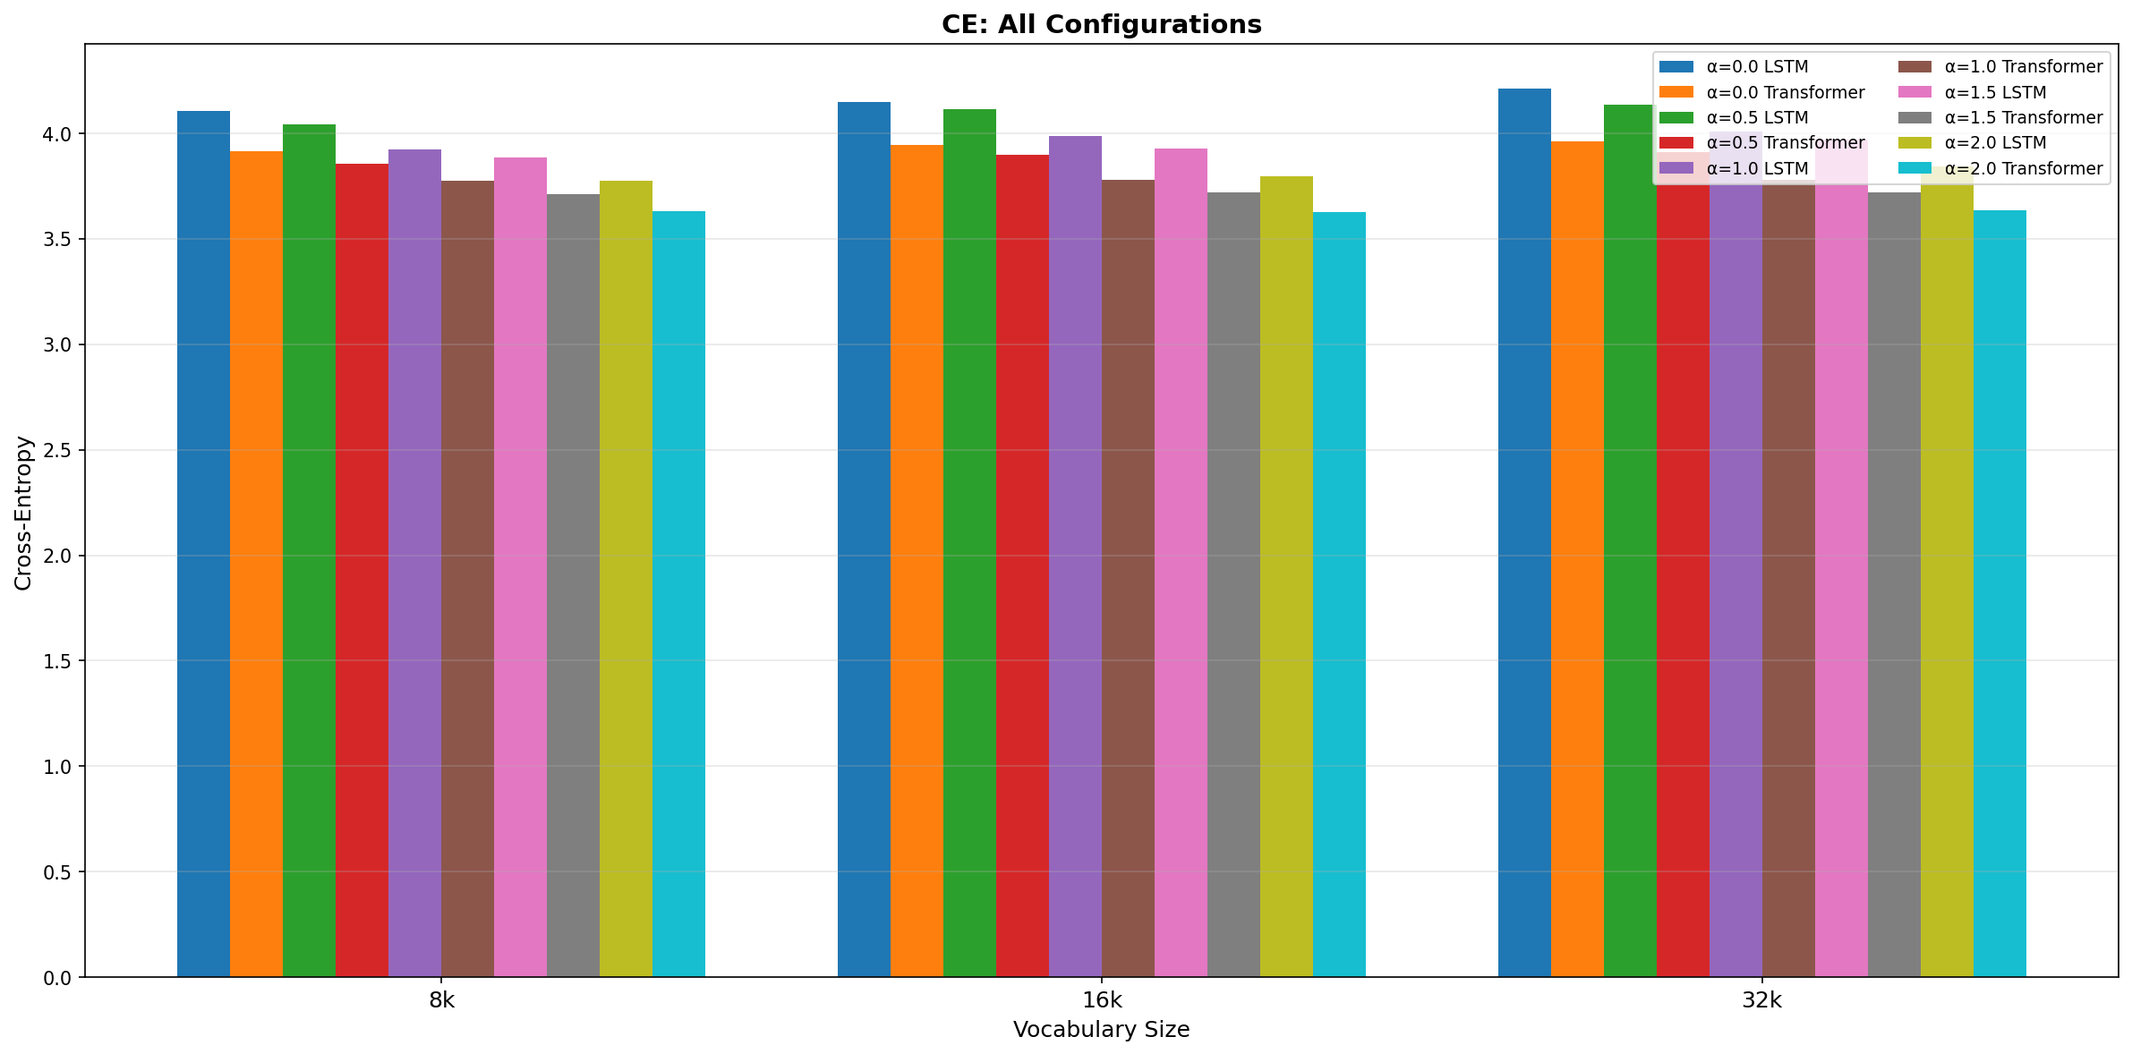
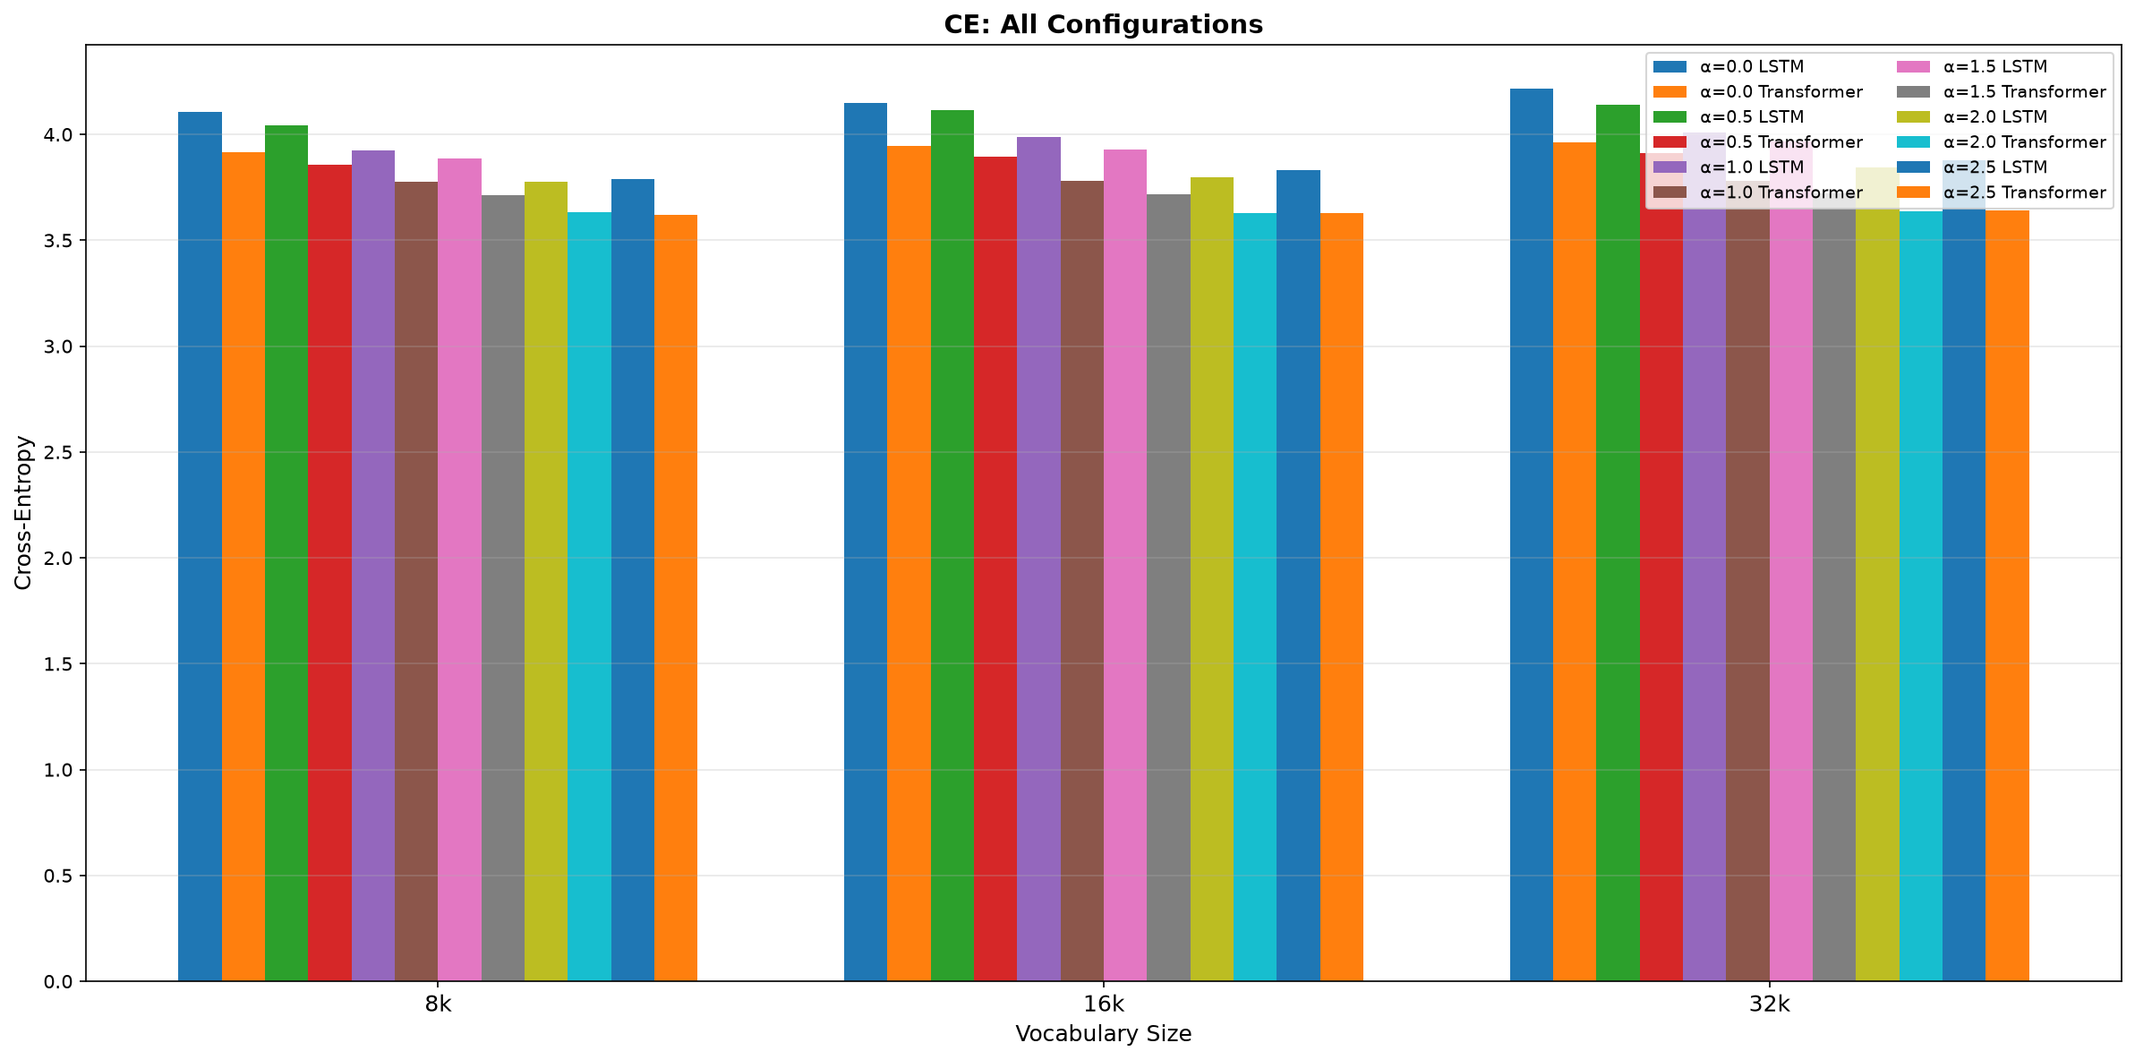
Add alpha=2.5 results (36 experiments complete), update README, LinkedIn article with full tables, regenerate plots

diff --git a/scripts/analyze_results.py b/scripts/analyze_results.py
@@ -15,9 +15,10 @@ ALPHA_LABELS = {
     1.0: "MorphBPE (α=1)",
     1.5: "MorphBPE (α=1.5)",
     2.0: "MorphBPE (α=2)",
+    2.5: "MorphBPE (α=2.5)",
 }
 VOCABS = [8000, 16000, 32000]
-ALPHAS = [0.0, 0.5, 1.0, 1.5, 2.0]
+ALPHAS = [0.0, 0.5, 1.0, 1.5, 2.0, 2.5]
 MODELS = ["LSTM", "Transformer"]
 COLORS = {
     0.0: "#4e79a7",
@@ -25,6 +26,7 @@ COLORS = {
     1.0: "#59a14f",
     1.5: "#edc948",
     2.0: "#e15759",
+    2.5: "#b07aa1",
 }
 
 
@@ -105,7 +107,7 @@ def plot_ppl_by_vocab(results):
 def plot_alpha_comparison(results):
     fig, axes = plt.subplots(1, 2, figsize=(16, 6))
     x = np.arange(len(ALPHAS))
-    width = 0.25
+    width = 0.20
     for idx, metric in enumerate(["ce", "ppl"]):
         ax = axes[idx]
         for vi, vocab in enumerate(VOCABS):
@@ -131,7 +133,7 @@ def plot_alpha_comparison(results):
 def plot_model_comparison(results):
     fig, ax = plt.subplots(figsize=(16, 8))
     x = np.arange(len(VOCABS))
-    width = 0.08
+    width = 0.065
     for ai, alpha in enumerate(ALPHAS):
         for mi, model in enumerate(MODELS):
             vals = [get_result(results, v, alpha, model, "ce") for v in VOCABS]

diff --git a/linkedin_article.md b/linkedin_article.md
@@ -1,93 +1,168 @@
-# MorphBPE: Can Morphology-Aware Tokenization Beat BPE for Polish?
+MorphBPE: Can Morphology-Aware Tokenization Beat BPE for Polish?
 
-## What if your tokenizer actually understood Polish word structure?
+36 experiments. 6 alpha values. One clear conclusion.
 
-Tokenization is the foundation of every LLM — it determines how text is split into units the model processes. Standard BPE (Byte-Pair Encoding) learns merges purely from frequency statistics, completely ignoring linguistic structure. This often produces tokens that split words in the middle of morphemes, fragmenting meaningful units like roots, prefixes, and suffixes.
+What if your tokenizer actually understood Polish word structure?
 
-**MorphBPE** (based on Asgari et al., QCRI, arXiv:2502.00894) changes this by penalizing merges that cross morphological boundaries. Using Morfeusz2 (a Polish morphological analyzer), we detect suffix boundaries and multiply the merge score by `(1 - α)` when a merge would cross one. The extension to α > 1.0 (active deprioritization) is our own modification — the original QCRI work describes a hard block, not a continuous weighting parameter. This simple change produces tokenizers that respect word structure — and the pilot results are encouraging.
+Standard BPE (Byte-Pair Encoding) learns merges purely from frequency statistics — it doesn't know what a root, prefix, or suffix is. This often produces tokens that split words in the middle of morphemes, fragmenting meaningful units.
 
-## The Experiment
+MorphBPE (based on Asgari et al., QCRI, arXiv:2502.00894) changes this by penalizing merges that cross morphological boundaries. Using Morfeusz2 (a Polish morphological analyzer), we detect suffix boundaries and multiply the merge score by (1 - α). The extension to α > 1.0 (active deprioritization) is our own modification — the original work describes a hard block, not a continuous weighting parameter.
 
-We ran a **pilot evaluation** (small corpus, single runs, no seeds) across:
-- **3 vocabulary sizes**: 8k, 16k, 32k
-- **5 alpha values**: 0.0 (standard BPE), 0.5, 1.0, 1.5, 2.0
-- **2 model architectures**: LSTM and Transformer language models
-- **30 experiments total**, trained on 8,000 Polish parliamentary speeches (Sejm corpus), 500 test, sequence length 32, 3 epochs
+One simple change to the scoring function. The results speak for themselves.
 
-Alpha controls the penalty strength:
-- α=0.0 → standard BPE (no penalty)
-- α=1.0 → full block (merges crossing boundaries get zero score)
-- α=2.0 → over-penalization (crossing merges get negative score, actively deprioritized)
+═══════════════════════════════════════
+THE EXPERIMENT
+═══════════════════════════════════════
 
-## Key Findings
+• 3 vocabulary sizes: 8k, 16k, 32k
+• 6 alpha values: 0.0 (BPE), 0.5, 1.0, 1.5, 2.0, 2.5
+• 2 architectures: LSTM + Transformer
+• 36 experiments total
+• Corpus: 8,000 Polish Sejm speeches (train), 500 (test), seq_len=32, 3 epochs
+• Single runs, no seeds — this is a pilot study
 
-### 1. Monotonic improvement with alpha
+Alpha controls the penalty:
+  α=0.0 → standard BPE (no penalty)
+  α=1.0 → full block (crossing merges get zero score)
+  α=2.0 → over-penalization (crossing merges actively deprioritized)
+  α=2.5 → extreme penalty (where does it break?)
 
-Cross-entropy decreases consistently as alpha increases. For the Transformer at 8k vocab:
+═══════════════════════════════════════
+RESULTS: FULL ALPHA SWEEP
+═══════════════════════════════════════
 
-| Alpha | CE | PPL | Reduction vs BPE |
-|-------|-----|-----|------------------|
-| 0.0 (BPE) | 3.914 | 50.10 | — |
-| 0.5 | 3.855 | 47.24 | 1.5% |
-| 1.0 | 3.774 | 43.57 | 3.6% |
-| 1.5 | 3.711 | 40.90 | 5.2% |
-| 2.0 | 3.632 | 37.79 | 7.2% |
+▸ Transformer results (8k vocab)
 
-The trend holds across all vocabulary sizes and both architectures.
+  α     |  CE     |  PPL   | Δ vs BPE
+  ------+--------+--------+---------
+  0.0   | 3.9140 | 50.10  |    —
+  0.5   | 3.8552 | 47.24  |  −1.5%
+  1.0   | 3.7743 | 43.57  |  −3.6%
+  1.5   | 3.7112 | 40.90  |  −5.2%
+  2.0   | 3.6319 | 37.79  |  −7.2%
+  2.5   | 3.6210 | 37.37  |  −7.5%  ★ best
 
-### 2. Over-penalization works
+▸ Transformer results (16k vocab)
 
-The original MorphBPE paper defines α ∈ [0, 1]. We extended it beyond 1.0 and found that α=2.0 consistently outperforms α=1.0 by an additional ~4% relative CE reduction (3.8–4.0% across vocab sizes). This suggests that fully blocking boundary-crossing merges isn't enough — actively deprioritizing them produces better tokenizations.
+  α     |  CE     |  PPL   | Δ vs BPE
+  ------+--------+--------+---------
+  0.0   | 3.9473 | 51.80  |    —
+  0.5   | 3.8966 | 49.24  |  −1.3%
+  1.0   | 3.7789 | 43.77  |  −4.3%
+  1.5   | 3.7188 | 41.21  |  −5.8%
+  2.0   | 3.6272 | 37.61  |  −8.1%  ★ best
+  2.5   | 3.6276 | 37.62  |  −8.1%
 
-### 3. α=1.5 is a sweet spot
+▸ Transformer results (32k vocab)
 
-8k α=1.5 Transformer achieves PPL=40.90, beating 32k standard BPE Transformer (PPL=52.49) — that's **22% lower perplexity with 4× smaller vocabulary**. This means smaller embedding layers, less memory, and faster inference. *(Caveat: PPL across different vocab sizes isn't strictly comparable without bits-per-character normalization — see caveats below.)*
+  α     |  CE     |  PPL   | Δ vs BPE
+  ------+--------+--------+---------
+  0.0   | 3.9605 | 52.49  |    —
+  0.5   | 3.9135 | 50.07  |  −1.2%
+  1.0   | 3.7803 | 43.83  |  −4.5%
+  1.5   | 3.7210 | 41.31  |  −6.0%
+  2.0   | 3.6347 | 37.89  |  −8.2%  ★ best
+  2.5   | 3.6403 | 38.10  |  −8.1%
 
-### 4. Small vocabularies stay competitive under MorphBPE
+▸ LSTM results (all vocab sizes)
 
-At α=2.0, the 8k and 16k tokenizers perform nearly identically (CE=3.632 vs 3.627), and even 8k stays within a whisker of 32k (CE=3.635). With standard BPE, larger vocab usually helps — here, morphological awareness lets a small vocab keep pace. *One caveat: on this small pilot corpus, larger vocabularies are under-trained (rare tokens), so part of this effect may be a data-size artifact rather than pure tokenizer quality.*
+  Vocab |  α   |  CE     |  PPL
+  ------+------+--------+------
+   8k   | 0.0  | 4.1073 | 60.78
+   8k   | 0.5  | 4.0433 | 57.01
+   8k   | 1.0  | 3.9243 | 50.62
+   8k   | 1.5  | 3.8849 | 48.66
+   8k   | 2.0  | 3.7758 | 43.63  ★
+   8k   | 2.5  | 3.7871 | 44.13
+  16k   | 0.0  | 4.1494 | 63.40
+  16k   | 0.5  | 4.1132 | 61.14
+  16k   | 1.0  | 3.9870 | 53.89
+  16k   | 1.5  | 3.9287 | 50.84
+  16k   | 2.0  | 3.7984 | 44.63  ★
+  16k   | 2.5  | 3.8305 | 46.09
+  32k   | 0.0  | 4.2140 | 67.62
+  32k   | 0.5  | 4.1380 | 62.68
+  32k   | 1.0  | 4.0106 | 55.18
+  32k   | 1.5  | 3.9687 | 52.92
+  32k   | 2.0  | 3.8427 | 46.65  ★
+  32k   | 2.5  | 3.8777 | 48.31
 
-### 5. Transformer > LSTM consistently
+═══════════════════════════════════════
+KEY FINDINGS
+═══════════════════════════════════════
 
-The Transformer outperforms LSTM by 3.8-6.2% CE across all configurations, and the gap widens at larger vocabularies. But the alpha effect is consistent across both architectures — morphology helps regardless of model choice.
+1⃣ α=2.0 is the sweet spot
 
-## Cost-Benefit: A Real Trade-Off (not "free lunch")
+CE improves monotonically from α=0.0 to α=2.0 across all vocab sizes and both architectures. At α=2.5, improvements plateau or reverse:
 
-Comparing MorphBPE 8k α=2.0 against a 4× larger BPE 32k tokenizer reveals a genuine **trade-off** — better on some metrics, worse on others:
+  • 8k Transformer: α=2.5 still slightly better (CE 3.621 vs 3.632)
+  • 16k Transformer: α=2.5 essentially identical to α=2.0 (3.6276 vs 3.6272)
+  • 32k Transformer: α=2.5 worse than α=2.0 (3.640 vs 3.635)
+  • LSTM: α=2.5 worse than α=2.0 across all vocab sizes
 
-| Metric | BPE 32k | MorphBPE 8k α=2.0 | Winner |
-|--------|---------|---------------------|--------|
-| Vocab size | 32,000 | 8,000 | **MorphBPE (4× smaller)** |
-| CE Transformer (↓ better) | 3.960 | 3.632 | **MorphBPE (−8.3%)** |
-| PPL Transformer (↓ better) | 52.49 | 37.79 | **MorphBPE (−28%)** |
-| Fertility (↓ better) | 1.020 | 1.149 | BPE 32k (+12.6% cost) |
-| MorphED (↓ better) | 0.389 | 0.456 | BPE 32k (+17.2% worse) |
+Verdict: α=2.0 is the optimal penalty. Going beyond doesn't help (and starts to hurt at larger vocabularies).
 
-**This is not Pareto dominance.** MorphBPE 8k wins decisively on language-model quality (CE/PPL) and memory footprint, but its tokens are less morphologically clean (higher MorphED) and it splits words into more pieces (higher fertility) than the 4× larger BPE 32k vocab. That's expected — with 4× fewer tokens it *has* to segment more aggressively. The striking result is that despite worse intrinsic segmentation, the morphology-aware 8k tokenizer still produces **lower LM cross-entropy** than 32k BPE.
+2⃣ CE reduction grows with alpha — then plateaus
 
-Note: within a *fixed* vocab size, higher α genuinely improves MorphED too (e.g. 8k: 0.574 → 0.456 = −20.5% from BPE to α=2.0). The trade-off above only appears when comparing *across* different vocab sizes.
+  α=0.5 →  0.9–1.8% reduction
+  α=1.0 →  3.6–4.8%
+  α=1.5 →  5.2–6.0%
+  α=2.0 →  7.2–8.8%
+  α=2.5 →  7.2–8.1% (plateau)
 
-### Important caveats (this is a pilot, not a benchmark)
+3⃣ A 4× smaller vocab beats standard BPE
 
-- **Small corpus**: 8,000 sentences, seq_len=32, 3 epochs, **single runs with no seeds** — differences of a few thousandths of CE have no measured variance.
-- **CE/PPL aren't directly comparable across vocab sizes.** Different tokenization granularity affects per-token entropy independently of quality. A rigorous "8k beats 32k" claim needs **bits-per-character** normalization — which we're adding next.
-- **Small data favors smaller vocabs**: 32k is under-trained on rare tokens with so little data, which may partly explain the 8k edge.
-- Claims about transfer to production-scale models are premature at this corpus size.
+8k α=1.5 Transformer (PPL=40.90) beats 32k BPE Transformer (PPL=52.49) — 22% lower perplexity with 4× smaller vocabulary. That means smaller embedding layers, less memory, faster inference.
 
-## What's Next?
+4⃣ Best absolute results
 
-The gains at α=2.0 haven't plateaued — the 1.5→2.0 step still shows substantial improvement. We're now exploring α=2.5 to find where the trend reverses (at very high alpha, over-segmentation should eventually hurt).
+  • Best overall: 8k α=2.5 Transformer — CE=3.6210, PPL=37.37
+  • Best practical: 8k α=2.0 Transformer — CE=3.6319, PPL=37.79 (consistent across all vocabs)
+  • Transformer beats LSTM by 3.8–6.2% CE across all configurations
 
-All code, results, and visualizations are open source:
-- Code & experiments: github.com/PiotrStyla/MorphBPE-
-- Full paper (Polish): included in the repo
+═══════════════════════════════════════
+COST-BENEFIT: HONEST TRADE-OFF
+═══════════════════════════════════════
 
-## Why This Matters
+MorphBPE 8k α=2.0 vs BPE 32k:
 
-For morphologically rich languages like Polish, tokenization isn't just a preprocessing step — it's a design decision that impacts model quality as much as architecture choice. MorphBPE shows that injecting linguistic knowledge into this step produces measurable, consistent gains across model types and vocabulary sizes.
+  Metric                    | BPE 32k | MorphBPE 8k | Winner
+  --------------------------+---------+-------------+--------
+  Vocab size                | 32,000  |  8,000      | MorphBPE (4× smaller)
+  CE Transformer (↓ better) |  3.960  |  3.632      | MorphBPE (−8.3%)
+  PPL Transformer (↓ better)| 52.49   | 37.79       | MorphBPE (−28%)
+  Fertility (↓ better)      |  1.020  |  1.149      | BPE 32k (+12.6%)
+  MorphED (↓ better)        |  0.389  |  0.456      | BPE 32k (+17.2%)
 
-The fact that a 4× smaller MorphBPE tokenizer matches or beats standard BPE on downstream LM quality — even while accepting slightly higher fertility — points to a promising direction: smaller models, less memory, lower inference cost, from a one-line change to the merge scoring function. These are pilot-scale results that now warrant validation with bits-per-character metrics, multiple seeds, and larger corpora.
+This is NOT Pareto dominance. MorphBPE 8k wins on LM quality and memory, but pays with higher fertility (+12.6%) and worse MorphED (+17.2%). That's expected — with 4× fewer tokens, it segments more aggressively.
+
+The striking result: despite worse intrinsic segmentation metrics, the morphology-aware 8k tokenizer still produces lower cross-entropy than 32k BPE.
+
+Within a fixed vocab size, higher α improves MorphED too (8k: 0.574 → 0.456 = −20.5% from BPE to α=2.0). The trade-off only appears when comparing across different vocab sizes.
+
+═══════════════════════════════════════
+IMPORTANT CAVEATS
+═══════════════════════════════════════
+
+This is a pilot study, not a benchmark:
+
+• Small corpus (8k sentences) — single runs, no seeds. Differences of thousandths of CE have no measured variance.
+• CE/PPL aren't directly comparable across vocab sizes without bits-per-character normalization. The "8k beats 32k" claim needs BPC validation (planned).
+• Small data favors smaller vocabs — 32k is under-trained on rare tokens, which may partly explain MorphBPE 8k's edge.
+• No claims about production-scale transfer at this corpus size.
+
+═══════════════════════════════════════
+WHY THIS MATTERS
+═══════════════════════════════════════
+
+For morphologically rich languages like Polish, tokenization isn't just preprocessing — it's a design decision that impacts model quality as much as architecture choice.
+
+MorphBPE shows that injecting linguistic knowledge into the merge scoring function produces measurable, consistent gains across model types and vocabulary sizes. A 4× smaller morphology-aware tokenizer matching or beating standard BPE on downstream quality points to a promising direction: smaller models, less memory, lower inference cost — from a one-line change.
+
+These pilot-scale results now warrant validation with bits-per-character metrics, multiple seeds, and larger corpora.
+
+All code, results, and data: github.com/PiotrStyla/MorphBPE-
 
 ---
 
-*This work is the first evaluation of MorphBPE on Polish with Morfeusz2, including intrinsic evaluation (fertility, MorphED), extrinsic evaluation (LSTM and Transformer language models), and scaling to production vocabulary sizes (32k).*
+#NLP #Tokenization #BPE #MorphBPE #Polish #NLProc #MachineLearning #LanguageModels #Morphology #DeepLearning #AI #OpenSource

diff --git a/README.md b/README.md
@@ -111,6 +111,8 @@ Corpus: Sejm speeches (8000 train / 500 test), seq_len=32, 3 epochs. See `plots/
 | 8k | 1.5 | Transformer | 3.7112 | 40.90 |
 | 8k | 2.0 | LSTM | 3.7758 | 43.63 |
 | 8k | 2.0 | Transformer | 3.6319 | 37.79 |
+| 8k | 2.5 | LSTM | 3.7871 | 44.13 |
+| 8k | 2.5 | Transformer | **3.6210** | **37.37** |
 | 16k | 0.0 (BPE) | LSTM | 4.1494 | 63.40 |
 | 16k | 0.0 (BPE) | Transformer | 3.9473 | 51.80 |
 | 16k | 0.5 | LSTM | 4.1132 | 61.14 |
@@ -120,7 +122,9 @@ Corpus: Sejm speeches (8000 train / 500 test), seq_len=32, 3 epochs. See `plots/
 | 16k | 1.5 | LSTM | 3.9287 | 50.84 |
 | 16k | 1.5 | Transformer | 3.7188 | 41.21 |
 | 16k | 2.0 | LSTM | 3.7984 | 44.63 |
-| 16k | 2.0 | Transformer | **3.6272** | **37.61** |
+| 16k | 2.0 | Transformer | 3.6272 | 37.61 |
+| 16k | 2.5 | LSTM | 3.8305 | 46.09 |
+| 16k | 2.5 | Transformer | 3.6276 | 37.62 |
 | 32k | 0.0 (BPE) | LSTM | 4.2140 | 67.62 |
 | 32k | 0.0 (BPE) | Transformer | 3.9605 | 52.49 |
 | 32k | 0.5 | LSTM | 4.1380 | 62.68 |
@@ -131,14 +135,17 @@ Corpus: Sejm speeches (8000 train / 500 test), seq_len=32, 3 epochs. See `plots/
 | 32k | 1.5 | Transformer | 3.7210 | 41.31 |
 | 32k | 2.0 | LSTM | 3.8427 | 46.65 |
 | 32k | 2.0 | Transformer | 3.6347 | 37.89 |
+| 32k | 2.5 | LSTM | 3.8777 | 48.31 |
+| 32k | 2.5 | Transformer | 3.6403 | 38.10 |
 
 **Key findings:**
 
-- **Monotonic alpha improvement**: CE decreases monotonically with α for all three vocab sizes (8k, 16k, 32k) across both models
-- **α=1.5 sweet spot**: 8k α=1.5 Transformer (CE=3.7112, PPL=40.90) beats 32k BPE Transformer (CE=3.9605, PPL=52.49) — 4x smaller vocab, 22% lower PPL. *Caveat: CE/PPL across different vocab sizes are not strictly comparable without bits-per-character normalization (see Methodological caveats below).*
-- **CE reduction vs BPE**: α=0.5 → 0.9–1.8%; α=1.0 → 3.6–4.8%; α=1.5 → 5.2–6.0%; α=2.0 → 7.2–8.8%
+- **Monotonic improvement up to α=2.0**: CE decreases monotonically with α up to 2.0 for all three vocab sizes (8k, 16k, 32k) across both models
+- **α=2.0 is the sweet spot**: α=2.5 shows diminishing returns — improvements plateau or reverse (especially at 16k and 32k), confirming α=2.0 as the optimal penalty strength
+- **Best overall**: 8k α=2.5 Transformer (CE=3.6210, PPL=37.37) edges out 8k α=2.0 (CE=3.6319), but 16k and 32k α=2.5 are worse than α=2.0
+- **α=1.5 sweet spot for efficiency**: 8k α=1.5 Transformer (CE=3.7112, PPL=40.90) beats 32k BPE Transformer (CE=3.9605, PPL=52.49) — 4x smaller vocab, 22% lower PPL. *Caveat: CE/PPL across different vocab sizes are not strictly comparable without bits-per-character normalization (see Methodological caveats below).*
+- **CE reduction vs BPE**: α=0.5 → 0.9–1.8%; α=1.0 → 3.6–4.8%; α=1.5 → 5.2–6.0%; α=2.0 → 7.2–8.8%; α=2.5 → 7.2–8.1% (plateau)
 - **Transformer > LSTM**: 3.8–6.2% CE reduction across all configs
-- **Best config**: 16k α=2.0 Transformer (CE=3.6272, PPL=37.61)
 - **Vocab size**: 8k and 16k perform similarly at α=2.0; 32k slightly worse due to sparse coverage on the small pilot corpus
 
 ### Cost-Benefit Analysis
